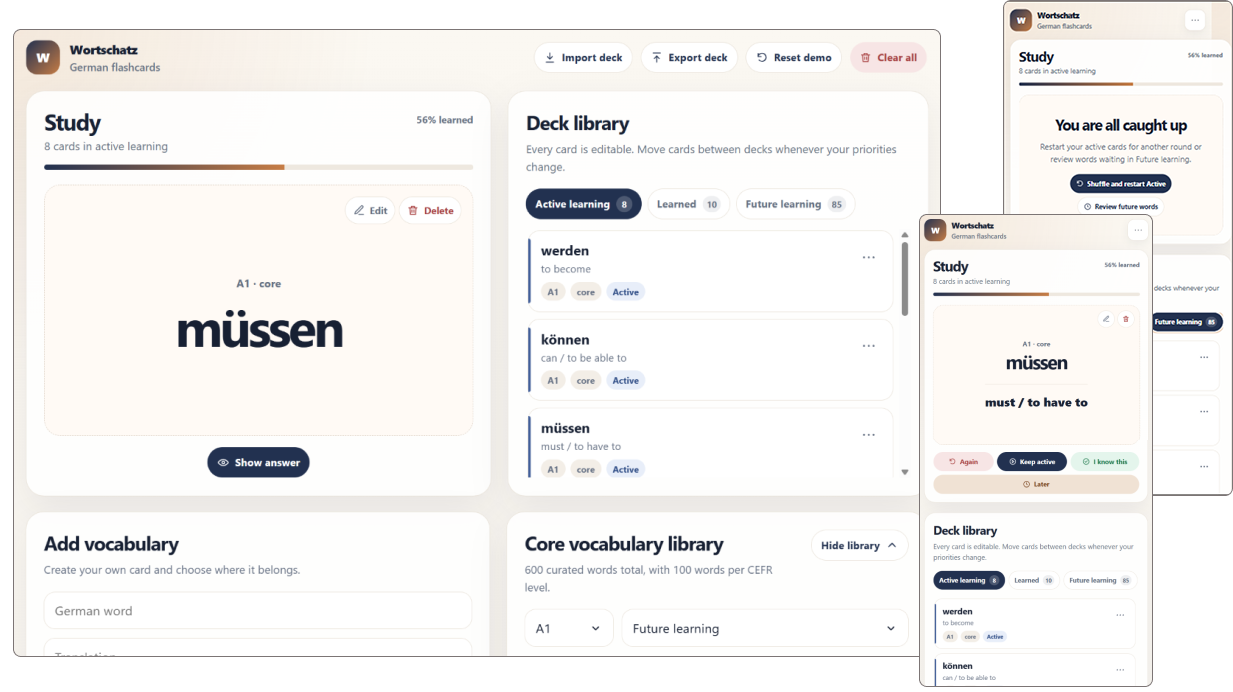
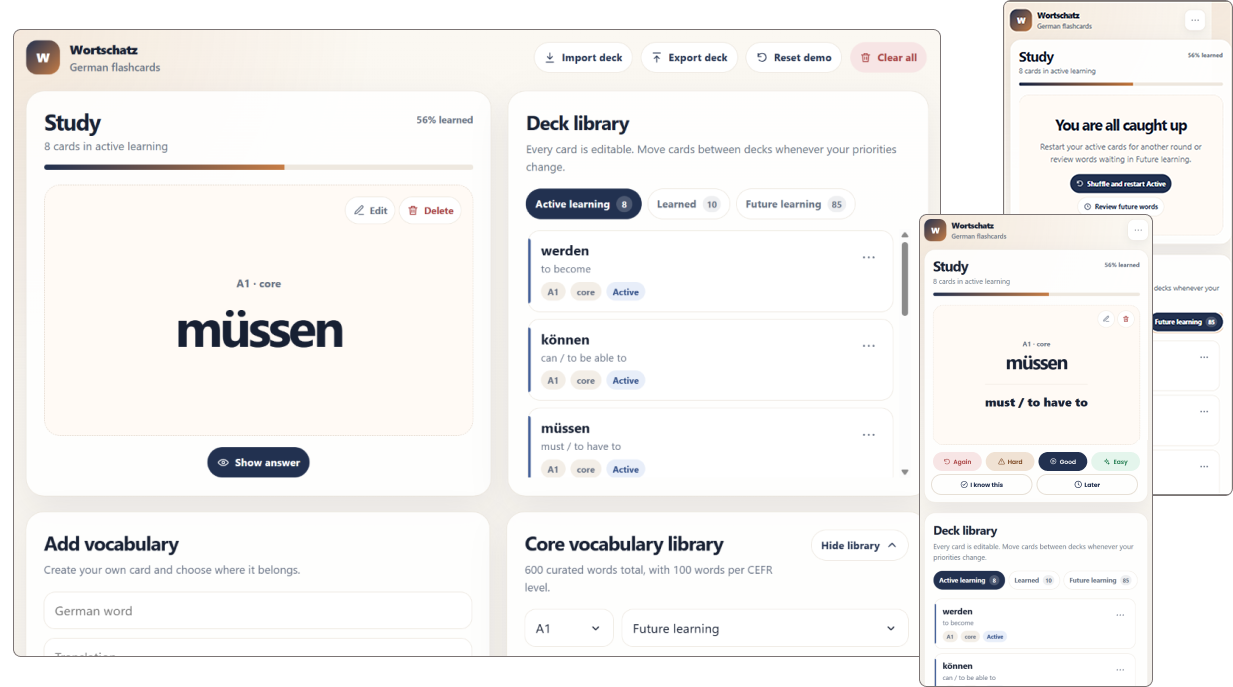
Added behance link for wortschatz

diff --git a/src/data/caseStudies.ts b/src/data/caseStudies.ts
@@ -91,7 +91,7 @@ export const caseStudies: Record<string, CaseStudy> = {
             {
                 title: "Product Strategy",
                 text:
-                    "Instead of merging all functionalities into a single overloaded interface, the product was divided into three focused modules: Time, Weather and Currency. Time and Weather share a location-based mental model and can be synchronized, while Currency remains independent due to its different interaction logic. This approach reduces complexity and preserves predictability."
+                    "Instead of merging all functionalities into a single overloaded interface, the product was divided into three focused modules: Time, Weather and Currency. Time and Weather share a location based mental model and can be synchronized, while Currency remains independent because its interaction model is fundamentally different. Rather than synchronizing all three modules for consistency's sake, I kept Currency separate to preserve predictable behavior for users and create a deliberate boundary in the state architecture."
             },
             {
                 title: "Product Evolution",
@@ -128,7 +128,7 @@ export const caseStudies: Record<string, CaseStudy> = {
                 title: "From Concept to Implementation",
                 image: "/images/time-currency/concept-to-app.png",
                 text:
-                    "The product evolved from low-fidelity wireframes into a fully functional mobile application. Design decisions were translated into real features through API integration, state management and interaction logic, bridging the gap between concept and execution."
+                    "I owned the product from interface design through implementation, translating the same interaction decisions into React Native components, state logic and API integrations. This end to end ownership allowed design decisions to be refined during implementation rather than lost in handoff."
             },
             {
                 title: "Engineering & Architecture",
@@ -289,8 +289,9 @@ export const caseStudies: Record<string, CaseStudy> = {
                 title: "Impact & Learnings",
                 text:
                     "Wortschatz strengthened my ability to move from a personal learning problem to a shipped product while owning both design and implementation. The project reinforced how product decisions, state architecture, reusable components, persistence and responsive interaction design directly shape the quality of a learning experience."
-            }
-        ]
+            },
+        ],
+        behanceUrl: "https://www.behance.net/gallery/255477503/Wortschatz-Vocabulary-Learning-Tool"
     },
 
     buscasaudavel: {

diff --git a/src/data/projects.ts b/src/data/projects.ts
@@ -59,7 +59,8 @@ export const projects: Project[] = [
       "Implemented a modular architecture using React, TypeScript and custom hooks for state management and persistence."
     ],
     liveUrl: "https://german-flashcards-ts.vercel.app/",
-    githubUrl: "https://github.com/ThamiStoppelli/german-flashcards"
+    githubUrl: "https://github.com/ThamiStoppelli/german-flashcards",
+    behanceUrl: "https://www.behance.net/gallery/255477503/Wortschatz-Vocabulary-Learning-Tool"
   },
   {
     id: "buscasaudavel",
